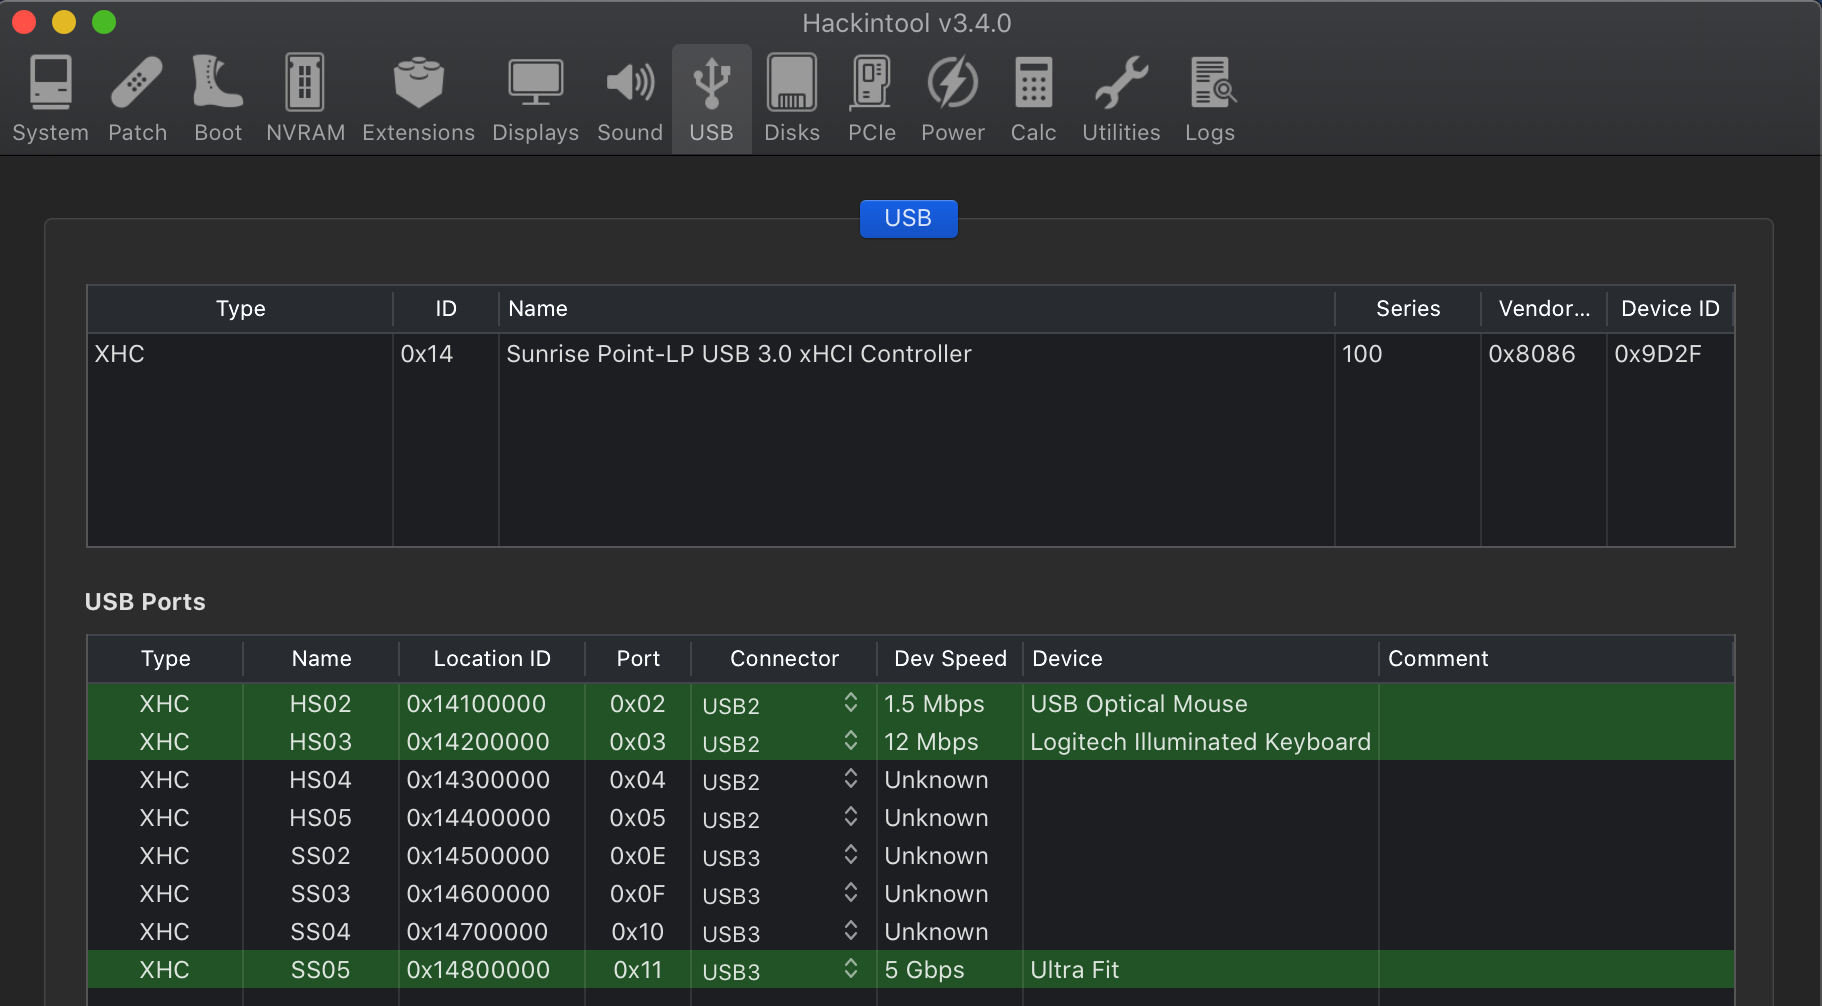
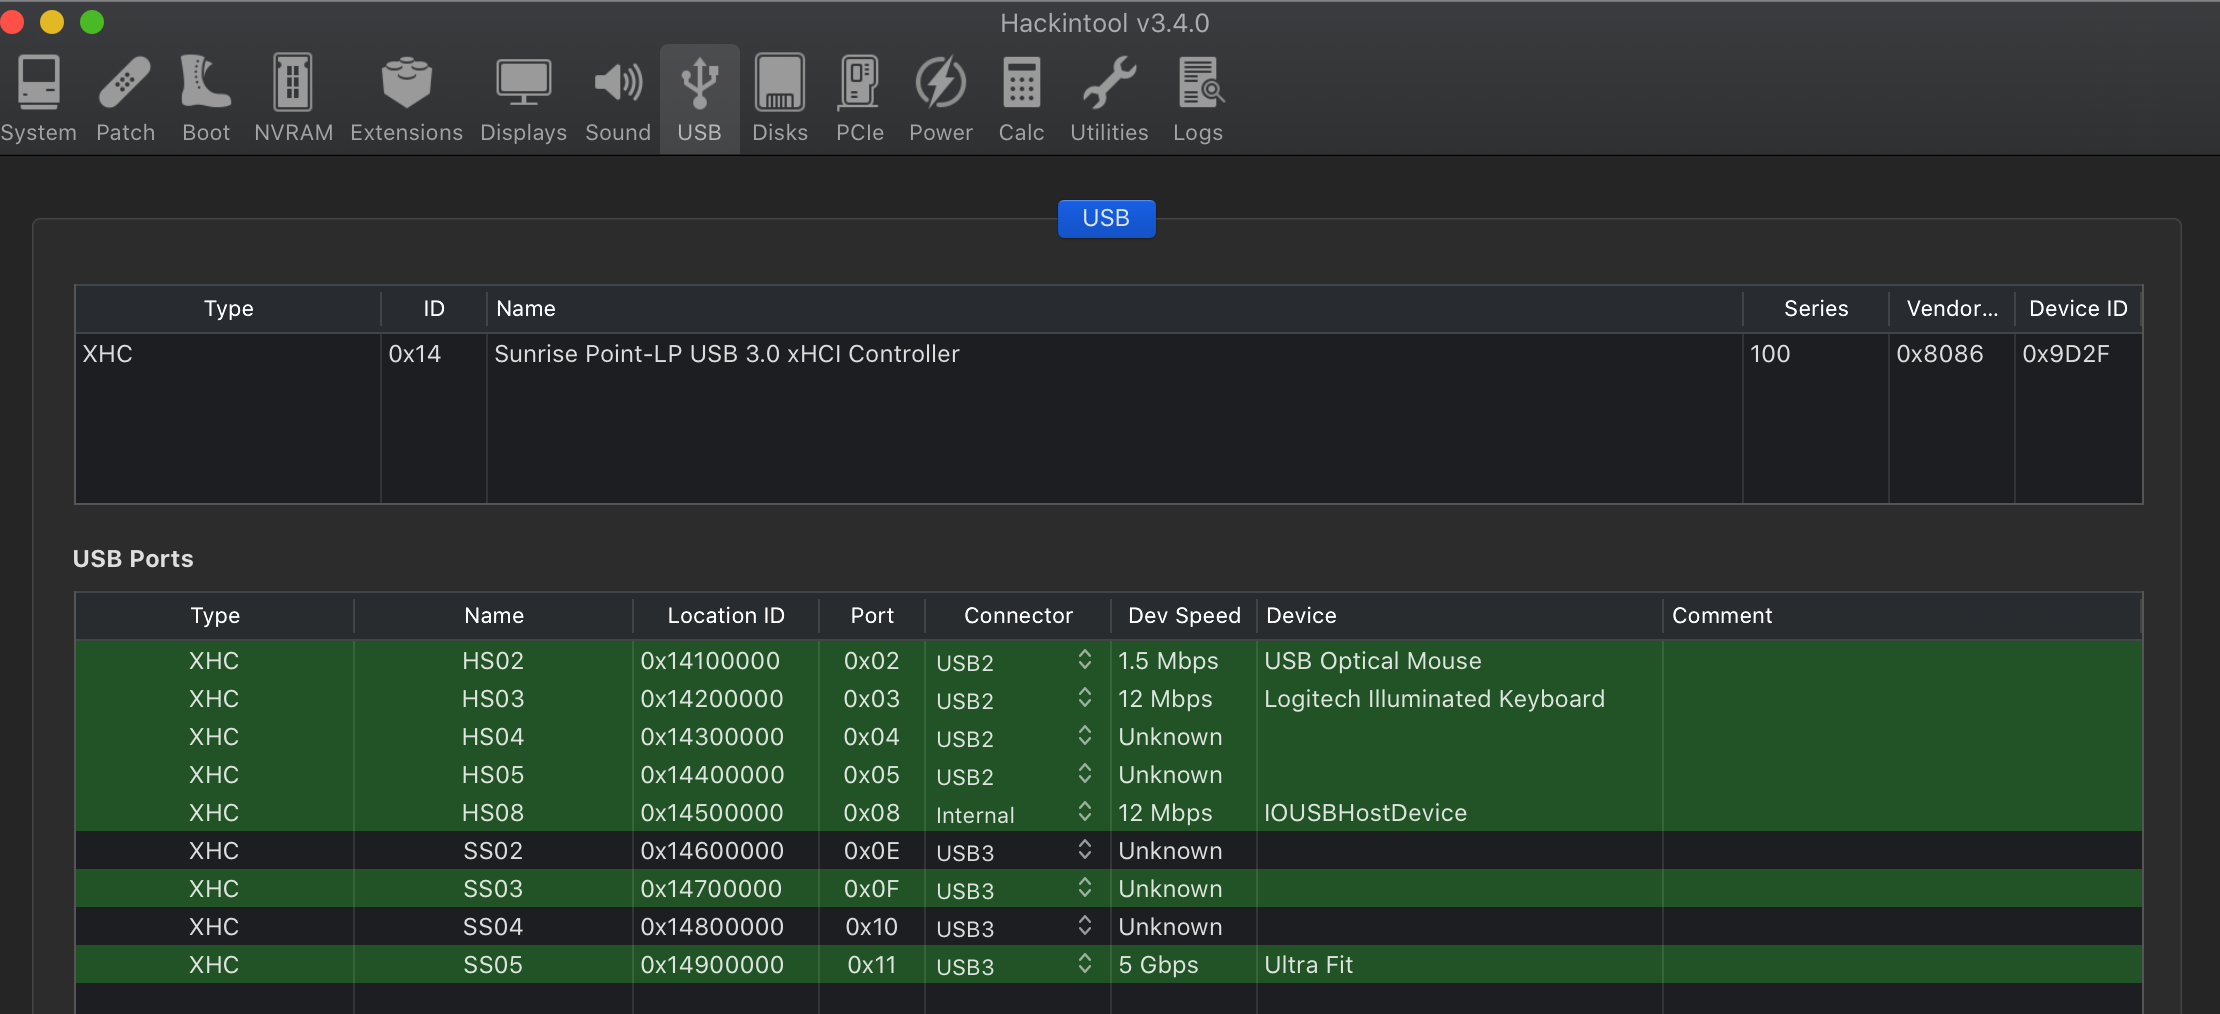
Fixed Bluetooth

diff --git a/README.md b/README.md
@@ -10,7 +10,7 @@
 - RAM: 1x 16GB G.Skill Ripjaws F4-2133C15S-16GRS 2133 MHz, DDR4
 - Storage: m.2 WD GREEN 256GB 
 - dGPU: N/A 
-- WIFI/BT: Broadcom DW1560 (on its way)
+- WIFI/BT: Currently default Intel but Broadcom DW1560 on its way
 
 - SMIBIOS 8,1
 - OpenCore 5.9
@@ -20,6 +20,7 @@
 ## Confirmed working
 - Quick boot into MacOS and rock solid
 - Wake Sleep
+- Built-in Bluetooth
 - Audio
 ![](https://github.com/extric99/Hackintosh-NUC7I7DNKE/blob/master/screenshot/Screenshot_Audio.png)
 - Sleep and Wake from mouse or keyboard
@@ -31,7 +32,7 @@
 
 ## Known Issues
 - DRM issues that are inherent to integrated iGPU only
-- Need to replace wifi/bluetooth to get it working
+- Need to replace builtin wifi to get it working
 
 
 ## Bios Setup:
@@ -40,7 +41,7 @@
 
 ## USB Setup:
 
-The 4 USB ports have been setup and configured as HS and SS
+The 4 USB ports have been setup and configured as HS and SS. The bluetooth USB port as internal header. 
 
 
 ![](https://github.com/extric99/Hackintosh-NUC7I7DNKE/blob/master/screenshot/Screenshot_USB.png)
